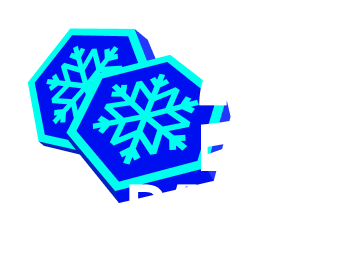
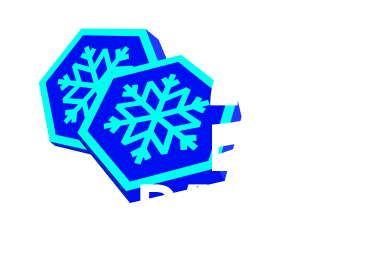
update popup game

Changed region(s): [[0.0618, 0.1102, 0.6798, 0.7992]]

diff --git a/src/FreezeStreakPopup.js b/src/FreezeStreakPopup.js
@@ -1,4 +1,4 @@
-import React from 'react';
+import React, { useEffect, useState, useRef } from 'react';
 import './FreezeStreakPopup.css';
 import iconStreak1 from './images/Icon_streak_1_day.png';
 import iconStreak2 from './images/Icon_streak_2_day.png';
@@ -14,14 +14,28 @@ const FreezeStreakPopup = ({
   selectedPackage, 
   onPurchase 
 }) => {
-  if (!isOpen || !selectedPackage) return null;
-
   // Freeze streak assets mapping
   const freezeAssets = {
     1: { icon: iconStreak1 },
     2: { icon: iconStreak2 },
     5: { icon: iconStreak5 },
   };
+
+  // Track confirmation after clicking YES
+  const [confirmed, setConfirmed] = useState(false);
+  // Preserve popup size when confirming so it doesn't change
+  const popupRef = useRef(null);
+  const [fixedHeight, setFixedHeight] = useState(null);
+  const [fixedWidth, setFixedWidth] = useState(null);
+
+  // Reset confirmation only when popup opens/closes
+  useEffect(() => {
+    if (isOpen) {
+      setConfirmed(false);
+      setFixedHeight(null);
+      setFixedWidth(null);
+    }
+  }, [isOpen]);
 
   const handlePurchase = () => {
     onPurchase(selectedPackage);
@@ -33,48 +47,99 @@ const FreezeStreakPopup = ({
   };
 
   const handleYes = () => {
+    // Capture current popup size before content changes
+    if (popupRef.current) {
+      const rect = popupRef.current.getBoundingClientRect();
+      setFixedHeight(rect.height);
+      setFixedWidth(rect.width);
+    }
     onPurchase(selectedPackage);
-    onClose();
+    setConfirmed(true);
   };
+
+  // Only render when open and a package is selected (after hooks have been initialized)
+  if (!isOpen || !selectedPackage) return null;
 
   return (
     <div className="freeze-streak-popup-overlay" onClick={onClose}>
-      <div className="freeze-streak-popup" onClick={(e) => e.stopPropagation()}>
-        {/* Header: show only one icon for the selected day */}
-        <div className="freeze-streak-header">
-          <div className="freeze-streak-icons">
-            <img
-              src={{ 1: popFreeze1, 2: popFreeze2, 5: popFreeze5 }[selectedPackage.days] || popFreeze1}
-              alt={`Freeze ${selectedPackage.days} day icon`}
-              className="freeze-pop-icon"
-            />
+      <div
+        className={`freeze-streak-popup ${confirmed ? 'confirmed' : ''}`}
+        ref={popupRef}
+        style={
+          fixedHeight || fixedWidth
+            ? {
+                height: fixedHeight,
+                minHeight: fixedHeight,
+                maxHeight: fixedHeight,
+                width: fixedWidth,
+                minWidth: fixedWidth,
+                maxWidth: fixedWidth,
+                boxSizing: 'border-box',
+                overflow: 'hidden',
+              }
+            : undefined
+        }
+        onClick={(e) => e.stopPropagation()}
+      >
+        {/* Corner borders */}
+        <div className="mk-corner mk-top-left"></div>
+        <div className="mk-corner mk-top-right"></div>
+        <div className="mk-corner mk-bottom-left"></div>
+        <div className="mk-corner mk-bottom-right"></div>
+        {/* Body: header + content grouped */}
+        <div className="freeze-streak-body">
+          {/* Header: show only one icon for the selected day */}
+          <div className="freeze-streak-header">
+            <div className="freeze-streak-icons">
+              <img
+                src={{ 1: popFreeze1, 2: popFreeze2, 5: popFreeze5 }[selectedPackage.days] || popFreeze1}
+                alt={`Freeze ${selectedPackage.days} day icon`}
+                className="freeze-pop-icon"
+              />
+            </div>
           </div>
-        </div>
-        
-        {/* Content area */}
-        <div className="freeze-streak-content">
-          <div className="freeze-streak-message">
-            <div className="freeze-line freeze-line-top">PROTECT YOUR</div>
-            <div className="freeze-line freeze-line-mid">{'<'}{selectedPackage.days}{'>'}</div>
-            <div className="freeze-line freeze-line-bottom">DAY STREAK</div>
+          
+          {/* Content area */}
+          <div className="freeze-streak-content">
+            <div className="freeze-streak-message">
+              {!confirmed ? (
+                <>
+                  <div className="freeze-line freeze-line-top">PROTECT YOUR</div>
+                  <div className="freeze-line freeze-line-mid">{'<'}{selectedPackage.days}{'>'}</div>
+                  <div className="freeze-line freeze-line-bottom">DAY STREAK</div>
+                </>
+              ) : (
+                <div className="freeze-line freeze-line-mid freeze-purchased-text">PURCHASED +{selectedPackage.days}</div>
+              )}
+            </div>
+
+            {/* Pay button */}
+            {!confirmed && (
+              <button className="freeze-streak-pay-button" onClick={handlePurchase}>
+                <span className="pay-text">PAY</span>
+                <span className="pay-amount">{selectedPackage.price.toLocaleString()}</span>
+                <img className="pay-icon" src={starletIcon} alt="Starlets" />
+              </button>
+            )}
           </div>
- 
-          {/* Pay button */}
-          <button className="freeze-streak-pay-button" onClick={handlePurchase}>
-            <span className="pay-text">PAY</span>
-            <span className="pay-amount">{selectedPackage.price.toLocaleString()}</span>
-            <img className="pay-icon" src={starletIcon} alt="Starlets" />
-          </button>
         </div>
         
         {/* Action buttons */}
         <div className="freeze-streak-actions">
-          <button className="freeze-streak-no-thanks" onClick={handleNoThanks}>
-            NO THANKS
-          </button>
-          <button className="freeze-streak-yes" onClick={handleYes}>
-            YES
-          </button>
+          {!confirmed ? (
+            <>
+              <button className="freeze-streak-no-thanks" onClick={handleNoThanks}>
+                NO THANKS
+              </button>
+              <button className="freeze-streak-yes" onClick={handleYes}>
+                YES
+              </button>
+            </>
+          ) : (
+            <button className="freeze-streak-yes freeze-back-button" onClick={onClose}>
+              BACK TO MARKET
+            </button>
+          )}
         </div>
       </div>
     </div>

diff --git a/src/FreezeStreakPopup.css b/src/FreezeStreakPopup.css
@@ -24,6 +24,9 @@
   background: rgba(35, 31, 32, 0.8);
   border: none;
   border-radius: 0;
+  /* Make popup a vertical flex container so actions can sit at the bottom */
+  display: flex;
+  flex-direction: column;
   padding: 25px;
   text-align: center;
   font-family: "PP Neue Machina", sans-serif;
@@ -39,12 +42,11 @@
 /* Header section with tilted 1 DAY */
 .freeze-streak-header {
   position: relative;
-  margin-bottom: 20px;
   display: flex;
   align-items: center;
   justify-content: center;
-  gap: 15px;
 }
+
 
 .freeze-streak-hexagon {
   width: 70px;
@@ -121,13 +123,21 @@
 
 .freeze-line-top,
 .freeze-line-bottom {
-  font-size: 18px;
+  font-size: 22px;
   letter-spacing: 0.02em;
 }
 
 .freeze-line-mid {
-  font-size: 36px;
+  font-size: 48px;
   line-height: 1;
+}
+
+/* Purchased state message */
+.freeze-purchased-text {
+  /* Adjust these as needed */
+  font-size: 36px;
+  font-weight: 700;
+  text-transform: uppercase;
 }
 
 /* Freeze options */
@@ -221,6 +231,21 @@
   display: flex;
   flex-direction: column;
   gap: 10px;
+  /* Push actions to the bottom of the popup */
+  margin-top: auto;
+}
+
+/* In confirmed state, push header+content down instead, keep actions at very bottom */
+.freeze-streak-body { 
+  display: flex;
+  flex-direction: column;
+}
+.freeze-streak-popup.confirmed .freeze-streak-body {
+  margin-top: auto;       /* push body (icon + text) down */
+  margin-bottom: 50px;    /* small gap above actions */
+}
+.freeze-streak-popup.confirmed .freeze-streak-actions {
+  margin-top: 50px; /* small gap below content */
 }
 
 .freeze-streak-no-thanks {
@@ -247,6 +272,12 @@
   font-family: "PP Neue Machina", sans-serif;
   padding: 8px 18px; /* reduced vertical height */
   line-height: 1;    /* tighter content height */
+}
+
+/* Back to Market button modifier */
+.freeze-back-button {
+  /* Adjust these as needed */
+  font-size: 26px;
 }
 
 .freeze-streak-no-thanks:hover,
@@ -284,7 +315,7 @@
 /* Responsive design */
 @media (max-width: 480px) {
   .freeze-streak-popup {
-    width: 120%;
+    width: 100%;  
   }
   
   .freeze-streak-hexagon {
@@ -316,10 +347,15 @@
 
   .freeze-line-top,
   .freeze-line-bottom {
-    font-size: 14px;
+    font-size: 18px;
   }
 
   .freeze-line-mid {
+    font-size: 36px;
+  }
+
+  /* Purchased message on mobile */
+  .freeze-purchased-text {
     font-size: 28px;
   }
   
@@ -338,15 +374,6 @@
 
   .pay-icon {
     margin-left: -15px;
-  }
-
-  /* Three-icon header (mobile) */
-  .freeze-streak-icons {
-    display: flex;
-    align-items: center;
-    justify-content: center;
-    gap: 8px;
-    margin-bottom: 6px;
   }
 
   .freeze-pop-icon {
@@ -385,4 +412,58 @@
     font-size: 26px;
     padding: 8px 16px;
   }
+
+  /* Back button font on mobile */
+  .freeze-back-button {
+    font-size: 24px;
+  }
+}
+
+/* Corner borders for FreezeStreakPopup */
+.freeze-streak-popup {
+  /* Customizable variables for corner decoration */
+  --mk-corner-size: 7px;              /* corner box size */
+  --mk-corner-color: #ffffff;          /* border color */
+  --mk-corner-border: 0.3px;           /* border thickness */
+
+  /* Per-side offsets so you can tweak position easily */
+  --mk-corner-offset-top: 10px;
+  --mk-corner-offset-right: 20px;
+  --mk-corner-offset-bottom: 240px;
+  --mk-corner-offset-left: 20px;
+}
+
+.freeze-streak-popup .mk-corner {
+  position: absolute;
+  width: var(--mk-corner-size);
+  height: var(--mk-corner-size);
+  z-index: 5; /* above content background */
+}
+
+.freeze-streak-popup .mk-top-left {
+  top: var(--mk-corner-offset-top);
+  left: var(--mk-corner-offset-left);
+  border-top: var(--mk-corner-border) solid var(--mk-corner-color);
+  border-left: var(--mk-corner-border) solid var(--mk-corner-color);
+}
+
+.freeze-streak-popup .mk-top-right {
+  top: var(--mk-corner-offset-top);
+  right: var(--mk-corner-offset-right);
+  border-top: var(--mk-corner-border) solid var(--mk-corner-color);
+  border-right: var(--mk-corner-border) solid var(--mk-corner-color);
+}
+
+.freeze-streak-popup .mk-bottom-left {
+  bottom: var(--mk-corner-offset-bottom);
+  left: var(--mk-corner-offset-left);
+  border-bottom: var(--mk-corner-border) solid var(--mk-corner-color);
+  border-left: var(--mk-corner-border) solid var(--mk-corner-color);
+}
+
+.freeze-streak-popup .mk-bottom-right {
+  bottom: var(--mk-corner-offset-bottom);
+  right: var(--mk-corner-offset-right);
+  border-bottom: var(--mk-corner-border) solid var(--mk-corner-color);
+  border-right: var(--mk-corner-border) solid var(--mk-corner-color);
 }
